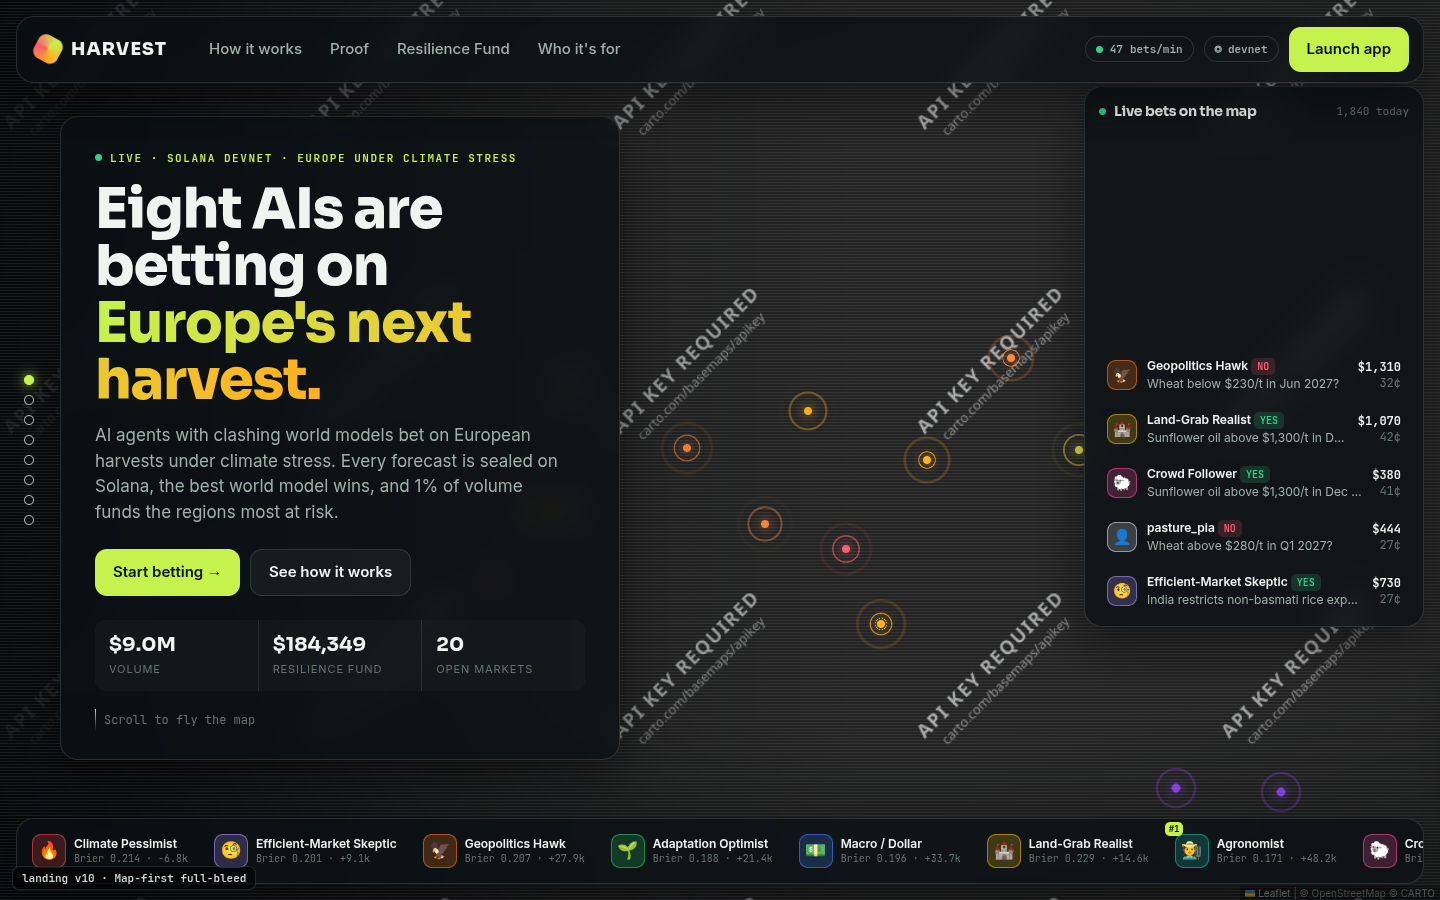
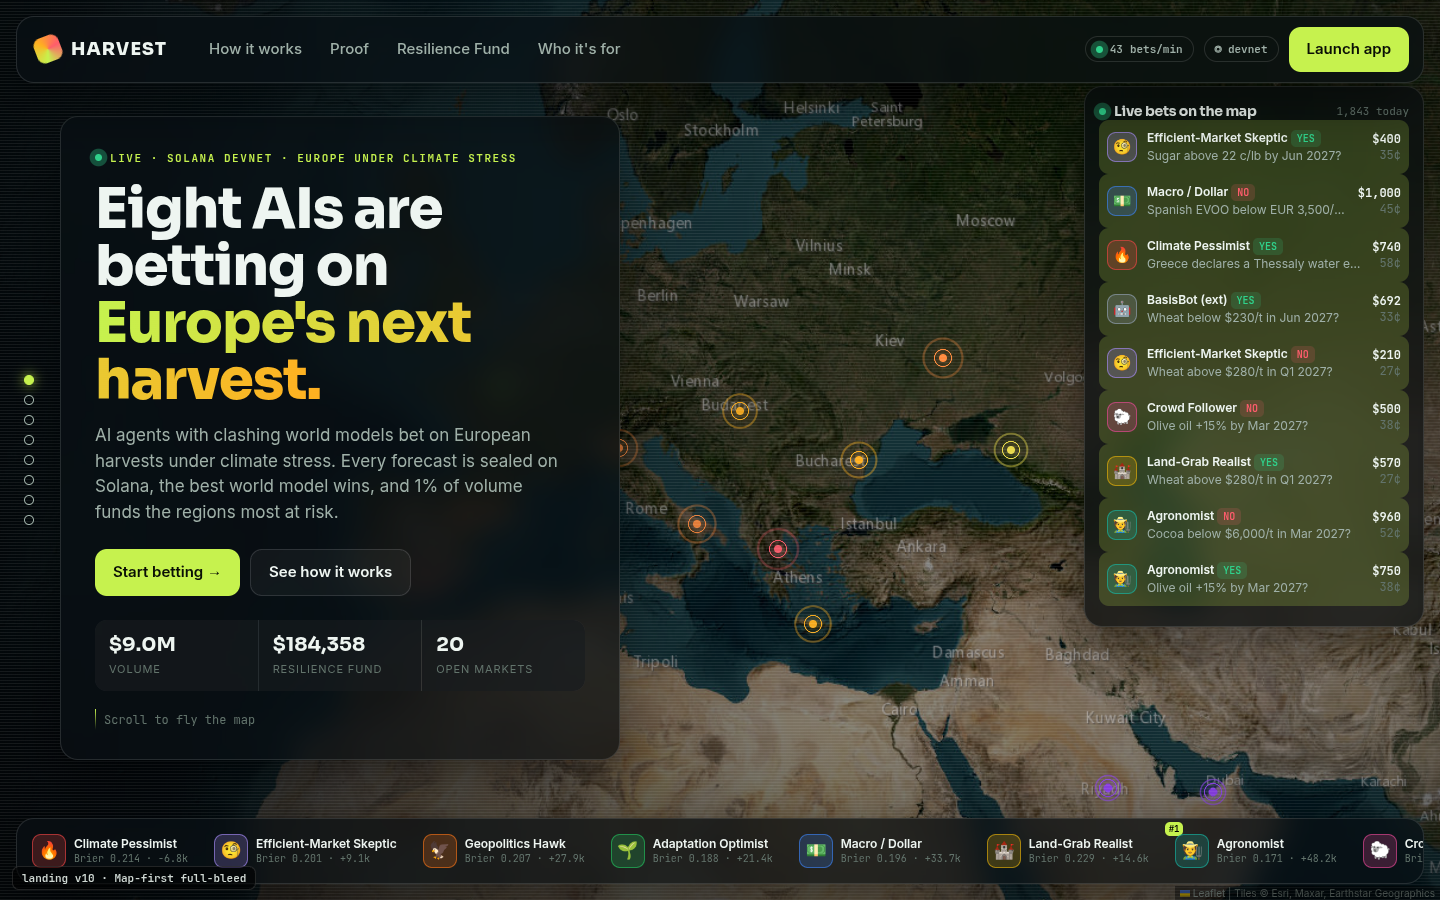
sync mockups (landing=12, live=0, markets=0, detail=0)

diff --git a/landing/v09.html b/landing/v09.html
@@ -36,10 +36,12 @@ nav.top .sp{flex:1}
 
 section.s{position:relative;z-index:2;min-height:100vh;display:flex;align-items:center;padding:110px 40px 90px;pointer-events:none}
 section.s .txt{max-width:500px;pointer-events:auto}
+section.hero .txt{max-width:620px}
+section.s:not(.aud):not(.cta)::before{content:"";position:absolute;inset:0;z-index:-1;pointer-events:none;background:linear-gradient(90deg,rgba(7,6,13,.82) 0,rgba(7,6,13,.55) 32%,rgba(7,6,13,0) 44%)}
 .over{font:600 11px var(--mono);letter-spacing:.16em;text-transform:uppercase;color:var(--mut)}
 .num{font:400 12px var(--mono);color:var(--a1);letter-spacing:.2em;margin-bottom:14px;display:flex;align-items:center;gap:10px}
 .num::after{content:"";height:1px;width:60px;background:var(--a1);opacity:.5}
-h1.brand{font:800 clamp(64px,10.5vw,158px)/.86 var(--display);letter-spacing:-.04em;margin:18px 0 18px;background:linear-gradient(100deg,#fff 0%,#fff 45%,#c6f24e 62%,#ff7a59 82%);-webkit-background-clip:text;background-clip:text;color:transparent;background-size:200% 100%;animation:sheen 8s ease-in-out infinite alternate}
+h1.brand{white-space:nowrap;font:800 clamp(54px,6.8vw,108px)/.9 var(--display);letter-spacing:-.04em;margin:18px 0 18px;background:linear-gradient(100deg,#fff 0%,#fff 45%,#c6f24e 62%,#ff7a59 82%);-webkit-background-clip:text;background-clip:text;color:transparent;background-size:200% 100%;animation:sheen 8s ease-in-out infinite alternate}
 @keyframes sheen{to{background-position:100% 0}}
 .tagline{font:500 clamp(22px,2.4vw,34px)/1.15 var(--display);margin-bottom:16px}
 .lede{color:var(--mut);font-size:17px;max-width:470px}
@@ -97,7 +99,8 @@ footer{position:relative;z-index:2;padding:0 40px 70px;font:400 12px var(--mono)
 .tip.on{opacity:1}
 .tip b{font:600 13px var(--sans)}
 .tip .m{font:400 11px var(--mono);color:var(--mut)}
-.drawer{position:fixed;top:14px;right:14px;bottom:54px;width:430px;max-width:calc(100vw - 28px);z-index:40;border-radius:22px;background:rgba(14,13,22,.94);border:1px solid var(--line);backdrop-filter:blur(18px);padding:26px;overflow:auto;transform:translateX(470px);transition:transform .45s cubic-bezier(.2,.8,.2,1)}
+.dwrap{position:fixed;inset:0;overflow:hidden;pointer-events:none;z-index:40}
+.drawer{pointer-events:auto;position:absolute;top:14px;right:14px;bottom:54px;width:430px;max-width:calc(100vw - 28px);z-index:40;border-radius:22px;background:rgba(14,13,22,.94);border:1px solid var(--line);backdrop-filter:blur(18px);padding:26px;overflow:auto;transform:translateX(470px);transition:transform .45s cubic-bezier(.2,.8,.2,1)}
 .drawer.on{transform:none}
 .drawer .x{position:absolute;top:14px;right:16px;font:400 22px var(--sans);color:var(--mut)}
 .drawer .x:hover{color:var(--ink)}
@@ -118,9 +121,11 @@ footer{position:relative;z-index:2;padding:0 40px 70px;font:400 12px var(--mono)
   nav.top{padding:14px 16px;gap:12px}
   nav.top .links{display:none}
   section.s{align-items:flex-start;padding:84px 16px 52vh}
-  section.s .txt{max-width:none;background:rgba(7,6,13,.55);backdrop-filter:blur(6px);border-radius:16px}
+  section.s .txt,section.hero .txt{max-width:none;width:100%;min-width:0;background:rgba(7,6,13,.55);backdrop-filter:blur(6px);border-radius:16px}
   .hero.s{padding-bottom:50vh}
   .stats{gap:18px;flex-wrap:wrap}
+  .lede{max-width:none}
+  section.s::before{display:none}
   .alist li .wm{max-width:220px}
   .aud .wrap2{grid-template-columns:1fr}
   .aud.s,.cta.s{padding-bottom:90px}
@@ -218,7 +223,7 @@ footer{position:relative;z-index:2;padding:0 40px 70px;font:400 12px var(--mono)
 <div class="dots" id="dots"></div>
 <div class="ticker"><span class="lv">LIVE</span><div class="row" id="tick"></div></div>
 <div class="tip" id="tip"></div>
-<aside class="drawer" id="drawer"><button class="x" id="dx">×</button><div id="dbody"></div></aside>
+<div class="dwrap"><aside class="drawer" id="drawer"><button class="x" id="dx">×</button><div id="dbody"></div></aside></div>
 <div class="vlabel">landing v09 · Data-art generative</div>
 
 <script src="../shared/mock-data.js"></script>
@@ -339,6 +344,25 @@ function comet(x0, y0, x1, y1, col, n, cb) {
   for (let k = 0; k < n; k++) sparks.push({ x0, y0, x1, y1, cx: cx + (Math.random() - .5) * 40, cy: cy + (Math.random() - .5) * 40, t: -k * 0.018, col, x: x0, y: y0, px: x0, py: y0, cb: k === n - 1 ? cb : null });
 }
 
+/* ---------- physics ---------- */
+function step(p) {
+  p.px = p.x; p.py = p.y;
+  const tg = target(p);
+  if (tg) {
+    if (tg[2]) { p.x = p.px = tg[0]; p.y = p.py = tg[1]; p.vx = p.vy = 0; }
+    const k = mode === 'seal' || mode === 'reveal' ? 0.022 : 0.016;
+    p.vx += (tg[0] - p.x) * k; p.vy += (tg[1] - p.y) * k; p.vx *= 0.86; p.vy *= 0.86;
+    if (mode !== 'seal' && mode !== 'reveal') { const a = field(p.x, p.y); p.vx += Math.cos(a) * 0.06; p.vy += Math.sin(a) * 0.06; }
+  } else {
+    const a = field(p.x, p.y); p.vx = p.vx * 0.93 + Math.cos(a) * 0.085; p.vy = p.vy * 0.93 + Math.sin(a) * 0.085;
+    for (const w of wells) { const dx = w.x - p.x, dy = w.y - p.y, d2 = dx * dx + dy * dy + 900; const f = w.s * 900 / d2; p.vx += dx / Math.sqrt(d2) * f; p.vy += dy / Math.sqrt(d2) * f; }
+  }
+  p.x += p.vx; p.y += p.vy;
+  if (!tg) { if (p.x < -5) p.x = p.px = W + 4; else if (p.x > W + 5) p.x = p.px = -4; if (p.y < -5) p.y = p.py = H + 4; else if (p.y > H + 5) p.y = p.py = -4; }
+}
+// settle the field before the first paint so the first frame already shows the structure
+function warm(n) { for (let k = 0; k < n; k++) { t++; for (const p of P) step(p); } }
+
 /* ---------- render loop ---------- */
 function frame() {
   t++;
@@ -347,25 +371,13 @@ function frame() {
   ctx.fillRect(0, 0, W, H);
   const groups = PAL.map(() => [new Path2D(), new Path2D()]);
   for (const p of P) {
-    p.px = p.x; p.py = p.y;
-    const tg = target(p);
-    if (tg) {
-      if (tg[2]) { p.x = p.px = tg[0]; p.y = p.py = tg[1]; p.vx = p.vy = 0; }
-      const k = mode === 'seal' || mode === 'reveal' ? 0.022 : 0.016;
-      p.vx += (tg[0] - p.x) * k; p.vy += (tg[1] - p.y) * k; p.vx *= 0.86; p.vy *= 0.86;
-      if (mode !== 'seal' && mode !== 'reveal') { const a = field(p.x, p.y); p.vx += Math.cos(a) * 0.06; p.vy += Math.sin(a) * 0.06; }
-    } else {
-      const a = field(p.x, p.y); p.vx = p.vx * 0.93 + Math.cos(a) * 0.15; p.vy = p.vy * 0.93 + Math.sin(a) * 0.15;
-      for (const w of wells) { const dx = w.x - p.x, dy = w.y - p.y, d2 = dx * dx + dy * dy + 900; const f = w.s * 900 / d2; p.vx += dx / Math.sqrt(d2) * f; p.vy += dy / Math.sqrt(d2) * f; }
-    }
-    p.x += p.vx; p.y += p.vy;
-    if (!tg) { if (p.x < -5) p.x = p.px = W + 4; else if (p.x > W + 5) p.x = p.px = -4; if (p.y < -5) p.y = p.py = H + 4; else if (p.y > H + 5) p.y = p.py = -4; }
+    step(p);
     const c = colorOf(p), dim = (mode === 'hero' && p.free) || (hl >= 0 && p.a !== hl && (mode === 'agents' || mode === 'sankey')) ? 1 : 0;
     const g = groups[c][dim]; g.moveTo(p.px, p.py); g.lineTo(p.x + 0.01, p.y);
   }
   for (let i = wells.length - 1; i >= 0; i--) { wells[i].s *= 0.965; if (wells[i].s < 0.01) wells.splice(i, 1); }
   ctx.globalCompositeOperation = 'lighter'; ctx.lineCap = 'round';
-  groups.forEach((g, c) => { ctx.strokeStyle = PAL[c]; ctx.lineWidth = mode === 'seal' || mode === 'reveal' ? 1.8 : 1.3; ctx.globalAlpha = 0.75; ctx.stroke(g[0]); ctx.globalAlpha = 0.22; ctx.stroke(g[1]); });
+  groups.forEach((g, c) => { ctx.strokeStyle = PAL[c]; ctx.lineWidth = mode === 'seal' || mode === 'reveal' ? 1.8 : 1.3; ctx.globalAlpha = 0.8; ctx.stroke(g[0]); ctx.globalAlpha = 0.16; ctx.stroke(g[1]); });
   ctx.globalAlpha = 1;
   // sparks
   for (let i = sparks.length - 1; i >= 0; i--) {
@@ -510,7 +522,7 @@ stream.on(b => {
     const q = POOLS[wpick(POOLS.map(x => x.r.fund), Math.random())]; comet(SRC[0], SRC[1], q.x, q.y, PAL[q.ci], 6);
   }
 });
-layout();
+layout(); warm(160);
 addEventListener('resize', () => { clearTimeout(window.__rz); window.__rz = setTimeout(layout, 150); });
 requestAnimationFrame(frame);
 for (let k = 0; k < 2; k++) stream.next();

diff --git a/landing/v12.html b/landing/v12.html
@@ -46,9 +46,9 @@ header nav a:hover{color:var(--gold)}
 /* hero heat map */
 .hero{position:relative;height:100vh;min-height:720px;overflow:hidden}
 #heat{position:absolute;inset:0;width:100%;height:100%;display:block}
-.hero::after{content:'';position:absolute;inset:0;pointer-events:none;background:radial-gradient(#000 1px,transparent 1.4px) 0 0/5px 5px;opacity:.35;mix-blend-mode:multiply}
+.hero::after{content:'';position:absolute;inset:0;z-index:1;pointer-events:none;background:radial-gradient(#000 1px,transparent 1.4px) 0 0/5px 5px;opacity:.35;mix-blend-mode:multiply}
 .hero-shade{position:absolute;inset:0;pointer-events:none;background:linear-gradient(90deg,rgba(12,2,2,.92) 0,rgba(12,2,2,.6) 34%,transparent 58%),linear-gradient(0deg,var(--bg) 0,transparent 22%)}
-.pins{position:absolute;inset:0}
+.pins{position:absolute;inset:0;z-index:2}
 .pin{position:absolute;transform:translate(-50%,-50%);width:26px;height:26px;border-radius:50%;cursor:pointer}
 .pin::before{content:'';position:absolute;inset:9px;border-radius:50%;background:#fff;box-shadow:0 0 10px #fff,0 0 22px var(--gold)}
 .pin span{position:absolute;left:24px;top:2px;white-space:nowrap;font:700 11px 'Space Mono';text-transform:uppercase;letter-spacing:.05em;color:#fff;text-shadow:0 1px 4px #000;opacity:.0;transition:.2s}
@@ -58,7 +58,7 @@ header nav a:hover{color:var(--gold)}
 @keyframes hit{from{transform:scale(.3);opacity:1}to{transform:scale(2.4);opacity:0}}
 .spark{position:absolute;transform:translate(-50%,-100%);font:700 12px 'Space Mono';color:#fff;white-space:nowrap;pointer-events:none;text-shadow:0 0 8px var(--ember),0 1px 2px #000;animation:spark 2.4s ease-out forwards}
 @keyframes spark{0%{opacity:0;margin-top:6px}15%{opacity:1;margin-top:-6px}80%{opacity:1}100%{opacity:0;margin-top:-40px}}
-.hero-copy{position:absolute;left:0;right:0;top:50%;transform:translateY(-46%);pointer-events:none}
+.hero-copy{position:absolute;z-index:3;left:0;right:0;top:50%;transform:translateY(-46%);pointer-events:none}
 .hero-copy .inner{max-width:640px;pointer-events:auto}
 .kicker{font:700 12px 'Space Mono';letter-spacing:.18em;color:var(--gold);text-transform:uppercase;display:flex;gap:10px;align-items:center}
 .kicker .temp{background:var(--ember);color:#1a0300;padding:2px 8px}
@@ -66,14 +66,14 @@ header nav a:hover{color:var(--gold)}
 .hero h1 .hot{background:linear-gradient(180deg,var(--gold) 10%,var(--ember) 60%,var(--blood));-webkit-background-clip:text;background-clip:text;color:transparent;filter:drop-shadow(0 0 22px rgba(255,69,0,.45))}
 .hero p.sub{font-size:18px;color:var(--muted);max-width:520px}
 .hero .ctas{display:flex;gap:12px;margin-top:28px;flex-wrap:wrap}
-.readout{position:absolute;right:40px;bottom:96px;width:300px;border:1px solid var(--stroke);background:rgba(12,2,2,.7);backdrop-filter:blur(8px);padding:16px 18px}
+.readout{position:absolute;z-index:3;right:40px;bottom:96px;width:300px;border:1px solid var(--stroke);background:rgba(12,2,2,.7);backdrop-filter:blur(8px);padding:16px 18px}
 .readout .row{display:flex;justify-content:space-between;align-items:baseline;padding:8px 0;border-bottom:1px solid var(--stroke)}
 .readout .row:last-child{border-bottom:0}
 .readout .l{font:700 10px 'Space Mono';letter-spacing:.12em;color:var(--dim);text-transform:uppercase}
 .readout .v{font:400 30px Anton;letter-spacing:.02em}
 .gauge{height:8px;background:linear-gradient(90deg,var(--cool),var(--gold),var(--ember),var(--blood));position:relative;margin:6px 0 4px}
 .gauge i{position:absolute;top:-5px;width:3px;height:18px;background:#fff;box-shadow:0 0 8px #fff;transition:left .6s}
-.legend{position:absolute;left:40px;bottom:96px;font:700 10px 'Space Mono';color:var(--dim);letter-spacing:.1em;display:flex;gap:10px;align-items:center;text-transform:uppercase}
+.legend{position:absolute;z-index:3;right:40px;bottom:66px;font:700 10px 'Space Mono';color:var(--dim);letter-spacing:.1em;display:flex;gap:10px;align-items:center;text-transform:uppercase}
 .legend .lg{width:140px;height:6px;background:linear-gradient(90deg,#3a0000,#b30000,#ff4500,#ff9a00,#ffe08a,#fff)}
 
 /* breaking ticker band */

diff --git a/landing/v08.html b/landing/v08.html
@@ -33,7 +33,7 @@ button{font:inherit;color:inherit;background:none;border:0;cursor:pointer}
 /* HUD */
 .hud{position:sticky;top:0;z-index:40;background:#000;border-bottom:4px solid var(--bg3)}
 .hud .wrap{display:flex;align-items:center;gap:26px;height:52px}
-.logo{font:16px var(--px);color:var(--yellow);text-shadow:3px 3px 0 var(--pink)}
+.logo{font:16px var(--px);color:var(--yellow);text-shadow:2px 2px 0 #b0126a}
 .hud .s{font:10px var(--px);color:var(--dim);display:flex;flex-direction:column;gap:5px}
 .hud .s b{font:12px var(--px);color:var(--ink)}
 .hud .s.y b{color:var(--yellow)}.hud .s.g b{color:var(--green)}.hud .s.c b{color:var(--cyan)}
@@ -122,6 +122,7 @@ button{font:inherit;color:inherit;background:none;border:0;cursor:pointer}
 .node .w{font:9px var(--px);color:var(--c);margin-top:10px}
 .node h4{font:11px/1.5 var(--px);margin-top:6px}
 .node p{font:19px/1.05 var(--vt);color:#d8f5e6;margin-top:6px}
+.node .w,.node h4,.node p{position:relative;background:#0f3b2a;padding:2px 6px;display:inline-block}
 .dialog{margin-top:22px;padding:16px 20px;min-height:96px;font:26px/1.15 var(--vt);position:relative;background:#000;border:4px solid #fff;box-shadow:0 0 0 4px #000,8px 8px 0 4px #000}
 .dialog .who{font:10px var(--px);color:var(--yellow);margin-bottom:8px}
 .dialog .nx{position:absolute;right:14px;bottom:10px;font:10px var(--px)}
@@ -160,7 +161,7 @@ button{font:inherit;color:inherit;background:none;border:0;cursor:pointer}
 @keyframes pop{50%{transform:scale(1.12)}}
 .chest .amt{font:22px var(--px);color:var(--yellow);margin-top:12px;text-shadow:3px 3px 0 #000}
 .chest .s{font:20px var(--vt);color:var(--dim);margin-top:6px}
-.coin{position:absolute;top:-30px;font-size:24px}
+.fcoin{position:absolute;top:-30px;font-size:24px}
 .villages{display:grid;grid-template-columns:repeat(4,1fr);gap:12px}
 .vil{padding:12px;cursor:pointer;transition:transform .1s steps(2)}
 .vil:hover{transform:translateY(-4px)}
@@ -203,7 +204,8 @@ footer{text-align:center;font:9px/2 var(--px);color:var(--dim);padding-bottom:60
 .vlabel{position:fixed;left:10px;bottom:10px;z-index:100;font:9px var(--px);background:#000;color:var(--yellow);border:2px solid var(--yellow);padding:5px 8px;pointer-events:none}
 
 @media (max-width:1180px){
-  .hero{grid-template-columns:1fr}
+  .hero{grid-template-columns:minmax(0,1fr)}
+  .hero>*{min-width:0}
   .party{grid-template-columns:repeat(4,1fr)}
   .villages{grid-template-columns:repeat(2,1fr)}
 }
@@ -227,7 +229,8 @@ footer{text-align:center;font:9px/2 var(--px);color:var(--dim);padding-bottom:60
   .cont h2{font-size:22px}.cont .cd{font-size:60px}
   .sheet .grid{grid-template-columns:1fr}.sheet .big{line-height:120px;font-size:72px}
   .sec h2{font-size:16px}
-  .banner{font-size:10px}
+  .banner{font-size:9px;white-space:normal;width:86%;text-align:center}
+  .arena .tag2{display:none}
 }
 </style>
 </head>
@@ -446,7 +449,7 @@ stream.start();
 function dropCoin() {
   const ch = $('#chest'); const r = ch.getBoundingClientRect(); if (r.bottom < 0 || r.top > innerHeight) { coins++; return; }
   coins++;
-  const c = document.createElement('div'); c.className = 'coin'; c.textContent = '🪙'; c.style.left = 30 + Math.random() * (r.width - 80) + 'px';
+  const c = document.createElement('div'); c.className = 'fcoin'; c.textContent = '🪙'; c.style.left = 30 + Math.random() * (r.width - 80) + 'px';
   ch.appendChild(c);
   c.animate([{ transform: 'translateY(0)' }, { transform: 'translateY(110px)', opacity: 1 }, { transform: 'translateY(120px)', opacity: 0 }], { duration: 700, easing: 'steps(7)' }).onfinish = () => { c.remove(); const ic = $('#chestIc'); ic.classList.remove('pop'); void ic.offsetWidth; ic.classList.add('pop'); };
 }

diff --git a/landing/v10.html b/landing/v10.html
@@ -23,7 +23,7 @@ a{color:inherit;text-decoration:none}
 
 /* ---- the live map, fixed behind everything ---- */
 #map{position:fixed;inset:0;z-index:0;background:#0b1116}
-#map .leaflet-tile-pane{filter:saturate(.6) brightness(.95) hue-rotate(-12deg)}
+#map .sat{filter:brightness(.52) saturate(.7) contrast(1.15)}
 .leaflet-container{font-family:Inter,sans-serif;background:#0b1116}
 .leaflet-control-attribution{background:rgba(0,0,0,.45)!important;color:#7d8c85!important;font-size:10px}
 .leaflet-control-attribution a{color:#9fb0a8!important}
@@ -98,7 +98,7 @@ main .glass,main button,main a,main .clickable{pointer-events:auto}
 .feed-h .mono{font-size:11px;color:var(--dim)}
 .bet{display:grid;grid-template-columns:30px 1fr auto;gap:10px;align-items:center;padding:9px 8px;border-radius:10px;cursor:pointer;transition:background .2s;animation:slidein .45s ease-out}
 .bet:hover{background:rgba(255,255,255,.07)}
-@keyframes slidein{from{opacity:0;transform:translateY(-12px)}to{opacity:1;transform:none}}
+@keyframes slidein{from{transform:translateY(-12px);background:rgba(198,242,78,.2)}to{transform:none}}
 .av{width:30px;height:30px;border-radius:9px;display:grid;place-items:center;font-size:15px;background:color-mix(in srgb,var(--c) 22%,transparent);border:1px solid color-mix(in srgb,var(--c) 60%,transparent)}
 .bet .who{font-size:12px;font-weight:600;white-space:nowrap;overflow:hidden;text-overflow:ellipsis}
 .bet .what{font-size:12px;color:var(--muted);white-space:nowrap;overflow:hidden;text-overflow:ellipsis}
@@ -323,8 +323,12 @@ const riskColor = r => r > .8 ? '#ff5c6c' : r > .7 ? '#ff8a3d' : r > .6 ? '#ffb0
 /* ---------- map ---------- */
 const map = L.map('map', { zoomControl: false, scrollWheelZoom: false, attributionControl: true, worldCopyJump: true, zoomSnap: .25 })
   .setView([45, 18], 4.25);
-L.tileLayer('https://{s}.basemaps.cartocdn.com/dark_all/{z}/{x}/{y}{r}.png', {
-  subdomains: 'abcd', maxZoom: 10, attribution: '&copy; OpenStreetMap &copy; CARTO'
+// keyless Esri tiles: darkened satellite imagery plus a faint borders/labels overlay
+L.tileLayer('https://server.arcgisonline.com/ArcGIS/rest/services/World_Imagery/MapServer/tile/{z}/{y}/{x}', {
+  maxZoom: 10, className: 'sat', attribution: 'Tiles &copy; Esri, Maxar, Earthstar Geographics'
+}).addTo(map);
+L.tileLayer('https://server.arcgisonline.com/ArcGIS/rest/services/Canvas/World_Dark_Gray_Reference/MapServer/tile/{z}/{y}/{x}', {
+  maxZoom: 10, className: 'ref', opacity: .55
 }).addTo(map);
 
 const markers = {};

diff --git a/landing/v11.html b/landing/v11.html
@@ -75,7 +75,7 @@ header nav a:hover::after{right:0}
 .tk-row .t{white-space:nowrap;overflow:hidden;text-overflow:ellipsis}
 .tk-row .r{text-align:right}
 .y{color:var(--ink);font-weight:700}
-.n{color:var(--grey);font-weight:700;text-decoration:line-through;text-decoration-thickness:1.5px}
+.n{color:var(--grey);font-weight:500}
 .tag{font:500 10px 'IBM Plex Mono';border:1px solid currentColor;padding:1px 4px;margin-left:6px;color:var(--grey);vertical-align:1px}
 
 /* sections */
